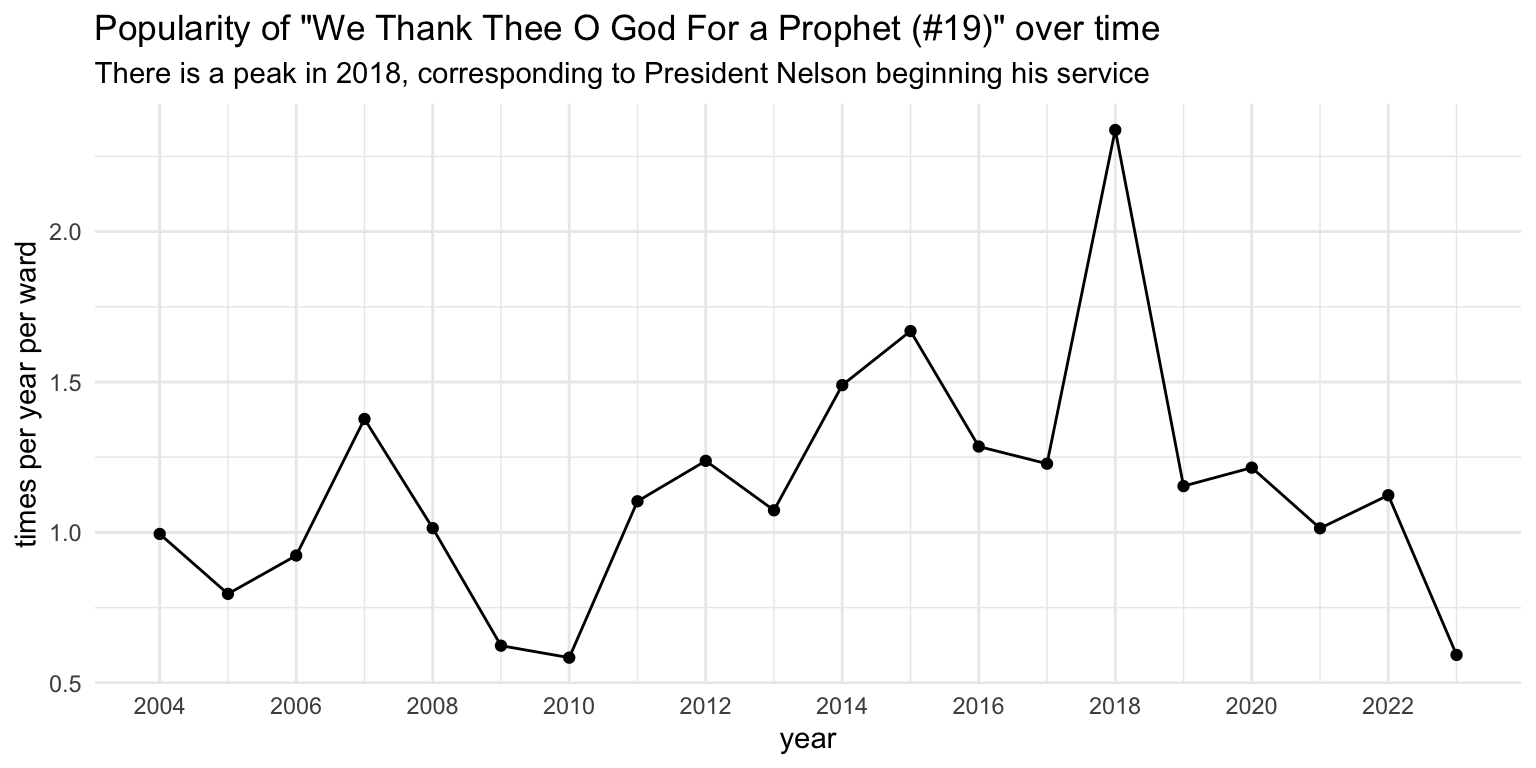
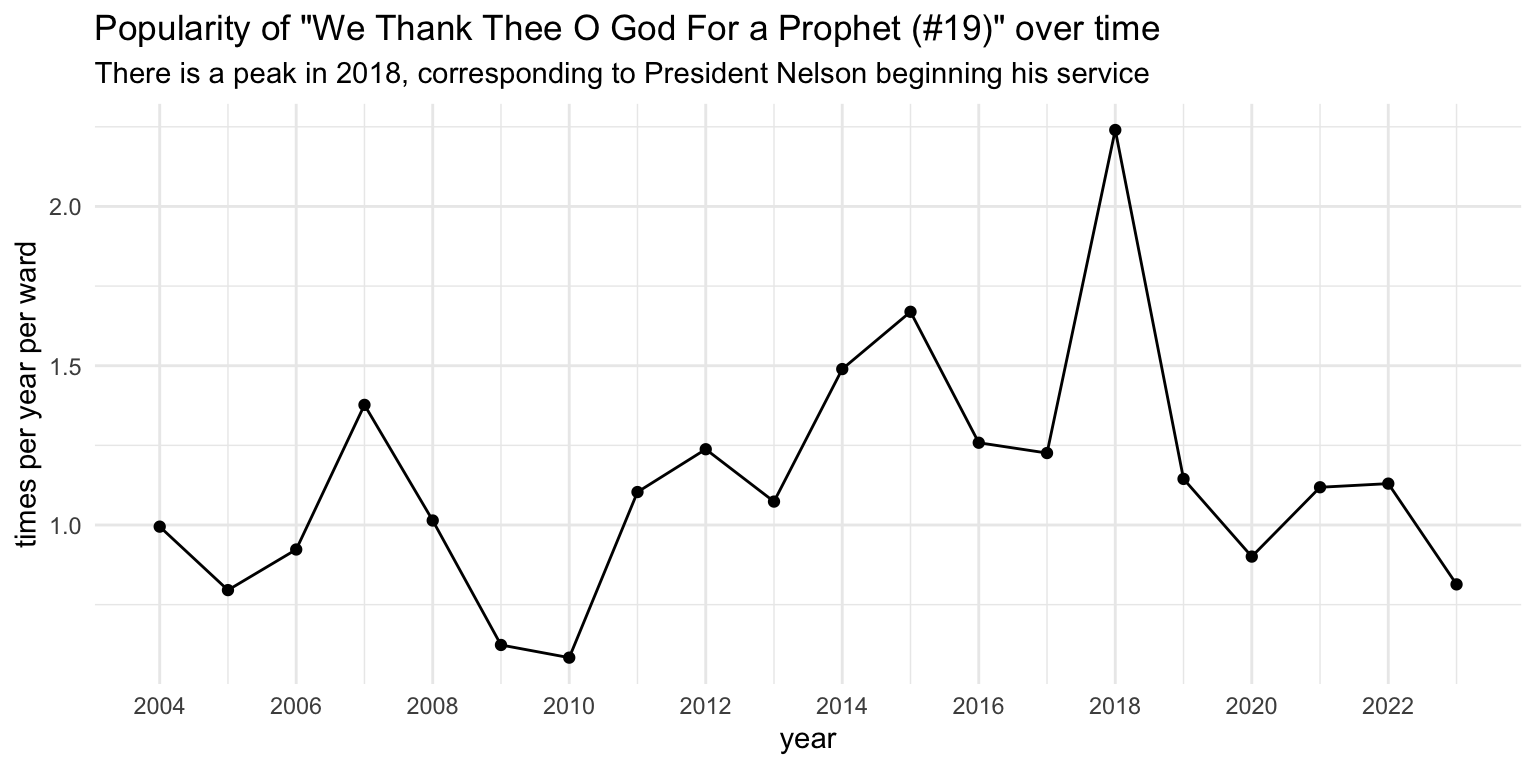
minor edits

diff --git a/docs/posts/martyrdom/index.html b/docs/posts/martyrdom/index.html
@@ -206,7 +206,7 @@ gtag('config', 'G-SG4E42NZ2F', { 'anonymize_ip': true});
 </div>
 </div>
 <p>Well would you look at that! The most common hymn on the last week on June (excluding sacrament hymns) is <hymn>Praise to the Man (#27)</hymn>. We have some competition with the Fourth of July, so we see some patriotic hymns in there. We also see some generic common hymns. But not too far down the line, we see <hymn>A Poor Wayfaring Man of Grief (#29)</hymn> and <hymn>Joseph Smith’s First Prayer (#26)</hymn>. Singing Joseph Smith–related hymns around the time of his martyrdom is not something I had considered before, but apparently it’s a common enough trend to break through the noise.</p>
-<p>Now, if you look at the <em>x</em>-axis of that plot, you’ll see some low numbers. Only about 7% of wards sing <hymn>Praise to the Man (#27)<hymn>, so it’s not like tons of people are doing this. Looking at all three of those hymns together, it looks like about 10% of wards sing one of them, 2% sing two of them, and twice I have instances of wards singing all three of them. Most of the time (88%), people don’t sing them. But again, it’s interesting that those three hymns were able to cut through the noise of all the other hymns sung on the last week of June.</hymn></hymn></p>
+<p>Now, if you look at the <em>x</em>-axis of that plot, you’ll see some low numbers. Only about 7% of wards sing <hymn>Praise to the Man (#27)</hymn>, so it’s not like tons of people are doing this. Looking at all three of those hymns together, it looks like about 10% of wards sing one of them, 2% sing two of them, and twice I have instances of wards singing all three of them. Most of the time (88%), people don’t sing them. But again, it’s interesting that those three hymns were able to cut through the noise of all the other hymns sung on the last week of June.</p>
 <p>So when do Joseph Smith hymns peak? When I started this analysis, I figured the Sunday closest to the 27th would have the most. But, as we saw, there was some interference with the 4th of July. Besides, holiday hymns are most common the Sunday <em>before</em> and not necessarily the <em>closest</em> Sunday.</p>
 <p>The following figure shows what proportion of wards sing at least one of those three Joseph Smith hymns per day. Keep in mind that I have data spanning 22 years, so even though though the anniversary of the martyrdom was Thursday this year, it falls on different days depending on the year. Please note that the data has been smoothed a little bit. Because the amount of data I have per year varies, the true underlying data was a little bit messy. So, what you’re seeing here is the percent of wards that sing at least one of the three Joseph Smith hymns <em>within a three-day window</em> the date shown on the plot.</p>
 <div class="cell">
@@ -214,7 +214,7 @@ gtag('config', 'G-SG4E42NZ2F', { 'anonymize_ip': true});
 <p><img src="index_files/figure-html/unnamed-chunk-5-1.png" class="img-fluid" width="768"></p>
 </div>
 </div>
-<p>What I see in this plot is that in the three-day window around (and including) about June 22nd–27th, we see the most number of Joseph Smith–related hymns. The number quickly drops off after that, likely due to 4th of July. But, during those days, about 15% of wards sing at least one of those three hymns. To put that into perspective, that’s about as common as singing <hymn>Our Savior’s Love (#113)</hymn> is around <a href="../../posts/valentines">Valentine’s Day</a> and only a little less common than singing <hymn>Ring Out, Wild Bells (#215) on <a href="../../posts/new-years">New Year’s Eve</a>.</hymn></p>
+<p>What I see in this plot is that in the three-day window around (and including) about June 22nd–27th, we see the most number of Joseph Smith–related hymns. The number quickly drops off after that, likely due to 4th of July. But, during those days, about 15% of wards sing at least one of those three hymns. To put that into perspective, that’s about as common as singing <hymn>Our Savior’s Love (#113)</hymn> is around <a href="../../posts/valentines">Valentine’s Day</a> and only a little less common than singing <hymn>Ring Out, Wild Bells (#215)</hymn> on <a href="../../posts/new-years">New Year’s Eve</a>.</p>
 <p>I learned something new today! I had no idea that so many wards honored Joseph Smith through song around the anniversary of his Martyrdom!</p>
 
 

diff --git a/docs/posts/change_over_time/index.html b/docs/posts/change_over_time/index.html
@@ -9,7 +9,7 @@
 <meta name="author" content="Joey Stanley">
 <meta name="dcterms.date" content="2024-04-04">
 
-<title>LDS Hymn Stats - Hymns’ Popularity over Time</title>
+<title>LDS Hymn Stats - What hymns have recently gotten more or less popular?</title>
 <style>
 code{white-space: pre-wrap;}
 span.smallcaps{font-variant: small-caps;}
@@ -73,17 +73,17 @@ gtag('config', 'G-SG4E42NZ2F', { 'anonymize_ip': true});
 
 
 <link rel="stylesheet" href="../../styles.css">
-<meta property="og:title" content="LDS Hymn Stats - Hymns’ Popularity over Time">
+<meta property="og:title" content="LDS Hymn Stats - What hymns have recently gotten more or less popular?">
 <meta property="og:description" content="">
-<meta property="og:image" content="https://hymnstats.joeystanley.com/posts/change_over_time/index_files/figure-html/unnamed-chunk-2-1.png">
+<meta property="og:image" content="https://hymnstats.joeystanley.com/posts/change_over_time/cover.png">
 <meta property="og:site-name" content="LDS Hymn Stats">
-<meta property="og:image:height" content="768">
-<meta property="og:image:width" content="1536">
-<meta name="twitter:title" content="LDS Hymn Stats - Hymns’ Popularity over Time">
+<meta property="og:image:height" content="1200">
+<meta property="og:image:width" content="1950">
+<meta name="twitter:title" content="LDS Hymn Stats - What hymns have recently gotten more or less popular?">
 <meta name="twitter:description" content="">
-<meta name="twitter:image" content="https://hymnstats.joeystanley.com/posts/change_over_time/index_files/figure-html/unnamed-chunk-2-1.png">
-<meta name="twitter:image-height" content="768">
-<meta name="twitter:image-width" content="1536">
+<meta name="twitter:image" content="https://hymnstats.joeystanley.com/posts/change_over_time/cover.png">
+<meta name="twitter:image-height" content="1200">
+<meta name="twitter:image-width" content="1950">
 <meta name="twitter:card" content="summary_large_image">
 </head>
 
@@ -181,7 +181,7 @@ gtag('config', 'G-SG4E42NZ2F', { 'anonymize_ip': true});
 
 <header id="title-block-header" class="quarto-title-block default">
 <div class="quarto-title">
-<h1 class="title">Hymns’ Popularity over Time</h1>
+<h1 class="title">What hymns have recently gotten more or less popular?</h1>
   <div class="quarto-categories">
     <div class="quarto-category">frequency</div>
     <div class="quarto-category">general</div>
@@ -271,6 +271,14 @@ gtag('config', 'G-SG4E42NZ2F', { 'anonymize_ip': true});
 <p>As it turns out, the average number of congregational hymns before 2019 was 3.36 and the average in 2019 and later was 3.21. So a slight drop.</p>
 <p>But wait! We had a pandemic since 2019. We were all in in lockdown and when wards resumed meetings, many did so in an abbreviated way and didn’t sing very many hymns, if any at all. So, we’ll have to treat the covid era differently. From what I can tell, wards were starting to shut down by around March 1, 2020 and it wasn’t until around January 2021 that they were back in person with all the hymns. This figure shows the average number of congregational hymns each month across the past 22 years or so, with key periods highlighted in different colors.</p>
 <div class="cell">
+<div class="cell-output cell-output-stderr">
+<pre><code>Warning: Removed 7 rows containing non-finite outside the scale range
+(`stat_smooth()`).</code></pre>
+</div>
+<div class="cell-output cell-output-stderr">
+<pre><code>Warning: Removed 7 rows containing missing values or values outside the scale range
+(`geom_point()`).</code></pre>
+</div>
 <div class="cell-output-display">
 <p><img src="index_files/figure-html/unnamed-chunk-6-1.png" class="img-fluid" width="624"></p>
 </div>

diff --git a/docs/findings.html b/docs/findings.html
@@ -218,7 +218,7 @@ gtag('config', 'G-SG4E42NZ2F', { 'anonymize_ip': true});
 
 <div class="quarto-listing quarto-listing-container-default" id="listing-listing">
 <div class="list quarto-listing-default">
-<div class="quarto-post image-right" data-index="0" data-categories="holidays,frequency" data-listing-date-sort="1719813600000" data-listing-file-modified-sort="1719820019527" data-listing-date-modified-sort="NaN" data-listing-reading-time-sort="8">
+<div class="quarto-post image-right" data-index="0" data-categories="holidays,frequency" data-listing-date-sort="1719813600000" data-listing-file-modified-sort="1719845707093" data-listing-date-modified-sort="NaN" data-listing-reading-time-sort="8">
 <div class="thumbnail">
 <p><a href="./posts/martyrdom/index.html"> <img src="./posts/martyrdom/cover.png" class="thumbnail-image"> </a></p>
 </div>
@@ -496,14 +496,14 @@ Joey Stanley
 </a>
 </div>
 </div>
-<div class="quarto-post image-right" data-index="7" data-categories="frequency,general" data-listing-date-sort="1712210400000" data-listing-file-modified-sort="1712218770594" data-listing-date-modified-sort="NaN" data-listing-reading-time-sort="28">
+<div class="quarto-post image-right" data-index="7" data-categories="frequency,general" data-listing-date-sort="1712210400000" data-listing-file-modified-sort="1719845797781" data-listing-date-modified-sort="NaN" data-listing-reading-time-sort="28">
 <div class="thumbnail">
-<p><a href="./posts/change_over_time/index.html"> <p class="card-img-top"><img src="posts/change_over_time/index_files/figure-html/unnamed-chunk-2-1.png"  class="thumbnail-image card-img"/></p> </a></p>
+<p><a href="./posts/change_over_time/index.html"> <img src="./posts/change_over_time/cover.png" class="thumbnail-image"> </a></p>
 </div>
 <div class="body">
 <a href="./posts/change_over_time/index.html">
 <h3 class="no-anchor listing-title">
-Hymns’ Popularity over Time
+What hymns have recently gotten more or less popular?
 </h3>
 <div class="listing-subtitle">
 
